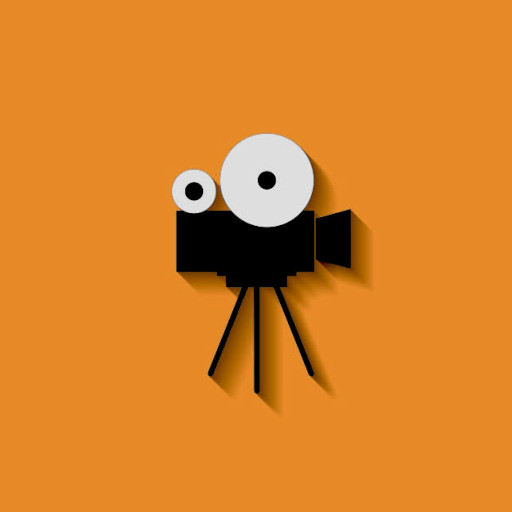
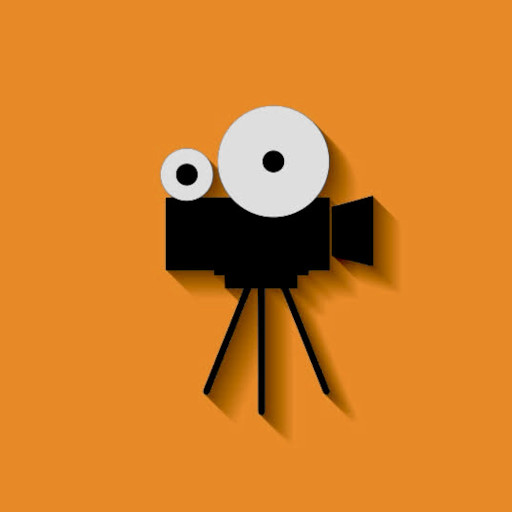
0.4d

Changed region(s): [[0.3125, 0.1875, 0.7812, 0.875]]

diff --git a/index.html b/index.html
@@ -135,6 +135,7 @@
     display: flex;
     gap: 10px;
     overflow-x: auto;
+    overflow-y: hidden;
     padding-bottom: 8px;
     scroll-snap-type: x mandatory;
     scroll-behavior: smooth;
@@ -169,6 +170,7 @@
       display: flex;
       gap: 10px;
       overflow-x: auto;
+      overflow-y: hidden;
       scroll-snap-type: x mandatory;
     }
     .carrusel .carrusel-item {
@@ -403,7 +405,7 @@
   .overlay {
     position: fixed;
     inset: 0;
-    background: rgba(31, 41, 55, .85);
+    background: rgba(2, 2, 4, 0.9);
     display: none;
     align-items: center;
     justify-content: center;
@@ -646,7 +648,7 @@
 <script>
   // Aplicar el tema antes del primer render para evitar parpadeo
   (function () {
-    var oscuro = localStorage.getItem('modoOscuro') === 'true';
+    var oscuro = localStorage.getItem('modoOscuro') !== 'false';
     if (oscuro) document.documentElement.classList.add('tema-oscuro');
   })();
 </script>
@@ -719,6 +721,10 @@
       <div class="campo">
         <label for="fNota"><i class="ti ti-star"></i> Calificación</label>
         <input type="number" id="fNota" min="0" max="5" step="0.2">
+      </div>
+      <div class="campo">
+        <label for="fAnio"><i class="ti ti-calendar"></i> Año</label>
+        <input type="number" id="fAnio" min="1888" max="2100" step="1">
       </div>
       <div class="modal-acciones">
         <button type="button" class="btn-secundario btn-volver" id="btnCancelar"><i class="ti ti-arrow-left"></i> Volver</button>
@@ -945,6 +951,11 @@
     return '<span class="badge clase"><i class="' + icono + '"></i> ' + texto + '</span>';
   }
 
+  function tituloConAnio(p) {
+    const base = capitalizar(p.pelicula);
+    return p.anio ? base + ' (' + p.anio + ')' : base;
+  }
+
   function tarjeta(p) {
     if (modoVista === 'portada') {
       const div = document.createElement('div');
@@ -982,7 +993,7 @@
         '<button class="btn-icono editar" title="Editar"><i class="ti ti-pencil"></i></button>' +
         '<button class="btn-icono borrar" title="Eliminar"><i class="ti ti-trash"></i></button>' +
       '</div>';
-    div.querySelector('.nombre').textContent = capitalizar(p.pelicula);
+    div.querySelector('.nombre').textContent = tituloConAnio(p);
     div.onclick = () => abrirDetalle(p);
     div.querySelector('.editar').onclick = (e) => { e.stopPropagation(); abrirEditar(p); };
     div.querySelector('.borrar').onclick = (e) => { e.stopPropagation(); eliminar(p.id, p.pelicula); };
@@ -1061,7 +1072,7 @@
 
   function abrirDetalle(p) {
     detalleActual = p;
-    $dPelicula.textContent = capitalizar(p.pelicula);
+    $dPelicula.textContent = tituloConAnio(p);
     $dVisto.innerHTML = badge(p.visto) + badgeClase(p.clase);
     $dDato.textContent = p.dato ? p.dato : '—';
     $dNota.innerHTML = p.nota
@@ -1127,7 +1138,7 @@
         '<img class="alea-img" src="/assets/movies.webp" alt="Película">' +
         '<div class="alea-hora">Es hora de ver...</div>' +
         '<div class="alea-titulo-fila">' +
-          '<div class="alea-titulo">' + capitalizar(elegida.pelicula) + '</div>' +
+          '<div class="alea-titulo">' + tituloConAnio(elegida) + '</div>' +
           '<button type="button" class="btn-copiar" title="Copiar título"><i class="ti ti-clipboard"></i></button>' +
         '</div>' +
         '<div class="alea-meta">' + badge(elegida.visto) + badgeClase(elegida.clase) + '</div>';
@@ -1178,6 +1189,7 @@
     $formulario.fVisto.value = p.visto;
     $formulario.fDato.value = p.dato || '';
     $formulario.fNota.value = p.nota || '';
+    $formulario.fAnio.value = p.anio || '';
     document.getElementById('btnEliminarPoster').style.display = '';
     actualizarLabelPelicula();
     $modalTitulo.textContent = 'Editar película';
@@ -1270,7 +1282,8 @@
       clase: $formulario.fClase.value,
       visto: $formulario.fVisto.value,
       dato: $formulario.fDato.value.trim(),
-      nota: $formulario.fNota.value.trim()
+      nota: $formulario.fNota.value.trim(),
+      anio: $formulario.fAnio.value.trim()
     };
     try {
       let registro;

diff --git a/config.html b/config.html
@@ -178,6 +178,16 @@
     color: #fff;
   }
   .opcion-vista i { font-size: 1.1rem; }
+  footer.credito {
+    max-width: 640px;
+    margin: 0 auto 24px;
+    padding: 0 24px;
+    text-align: center;
+    font-size: .85rem;
+    color: var(--texto-suave);
+  }
+  footer.credito a { color: var(--morado); text-decoration: none; }
+  footer.credito a:hover { text-decoration: underline; }
 </style>
 <script>
   // Aplicar el tema antes del primer render para evitar parpadeo
@@ -224,6 +234,13 @@
   </div>
 </div>
 
+<footer class="credito">
+  <div>Aplicativo creado por Carlos Pariona V.</div>
+  <div>Página web <a href="https://infocatsoluciones.com" target="_blank" rel="noopener noreferrer">https://infocatsoluciones.com</a></div>
+  <div>Correo de contacto <a href="mailto:servidor@infocatsoluciones.com">servidor@infocatsoluciones.com</a></div>
+  <div>Versión: 1.04d</div>
+</footer>
+
 <script>
   const $switch = document.getElementById('modoOscuro');
   const $estado = document.getElementById('estado');
@@ -235,7 +252,7 @@
     $estado.textContent = oscuro ? 'Activado' : 'Desactivado';
   }
 
-  $switch.checked = localStorage.getItem('modoOscuro') === 'true';
+  $switch.checked = localStorage.getItem('modoOscuro') !== 'false';
   $switch.addEventListener('change', aplicar);
   aplicar();
 
